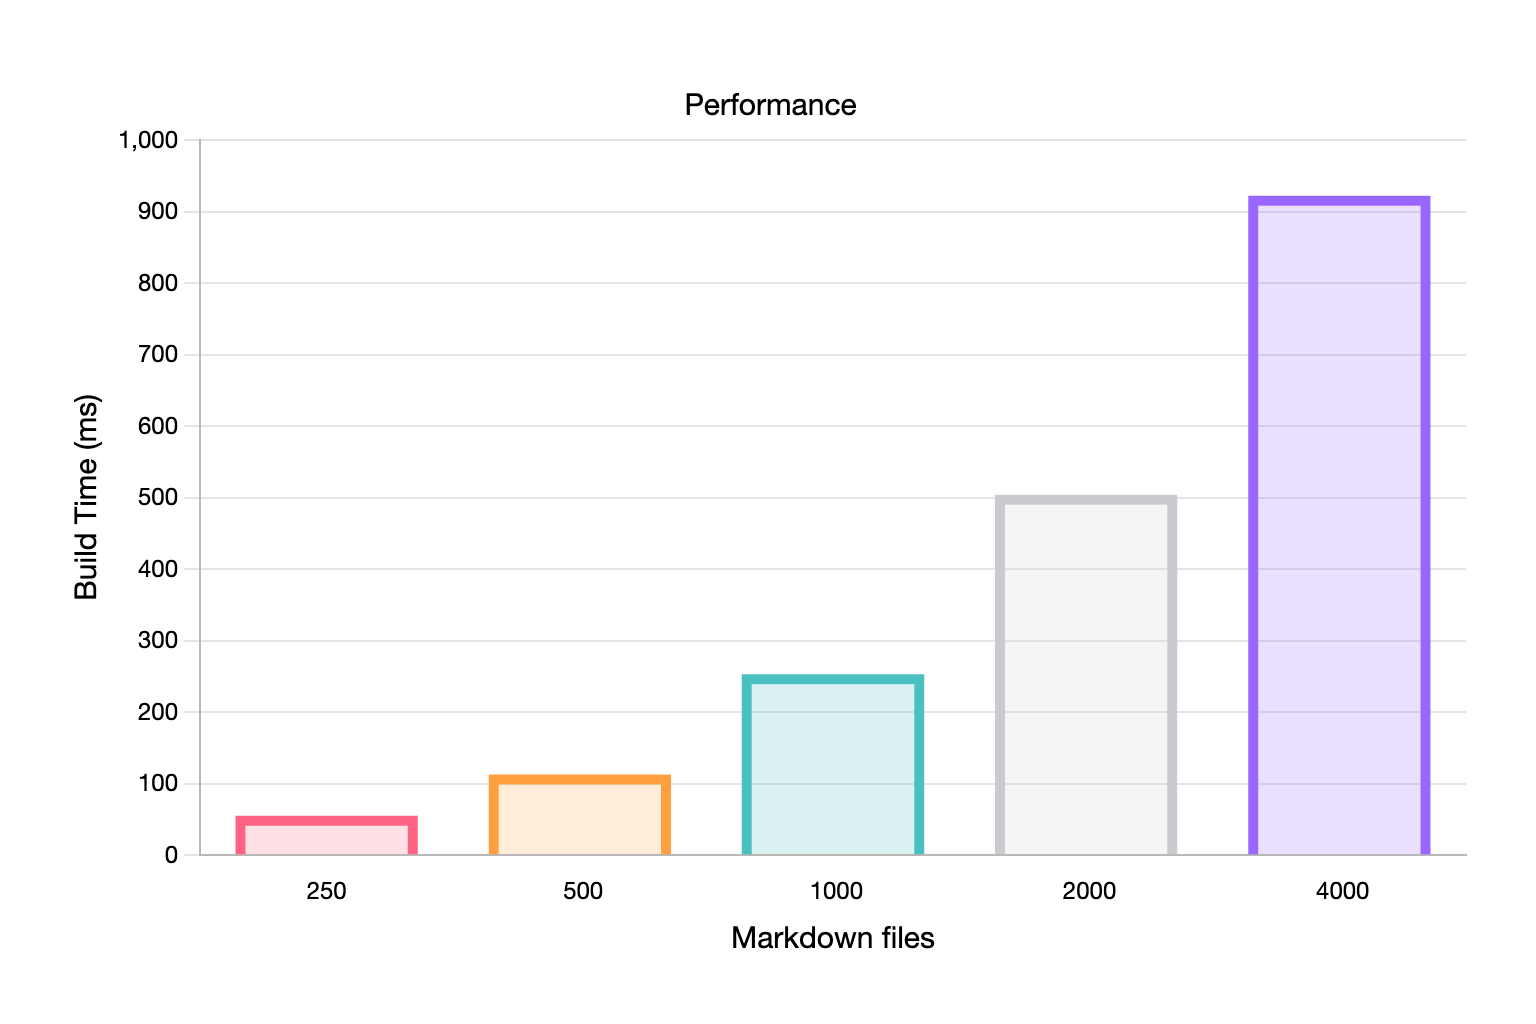
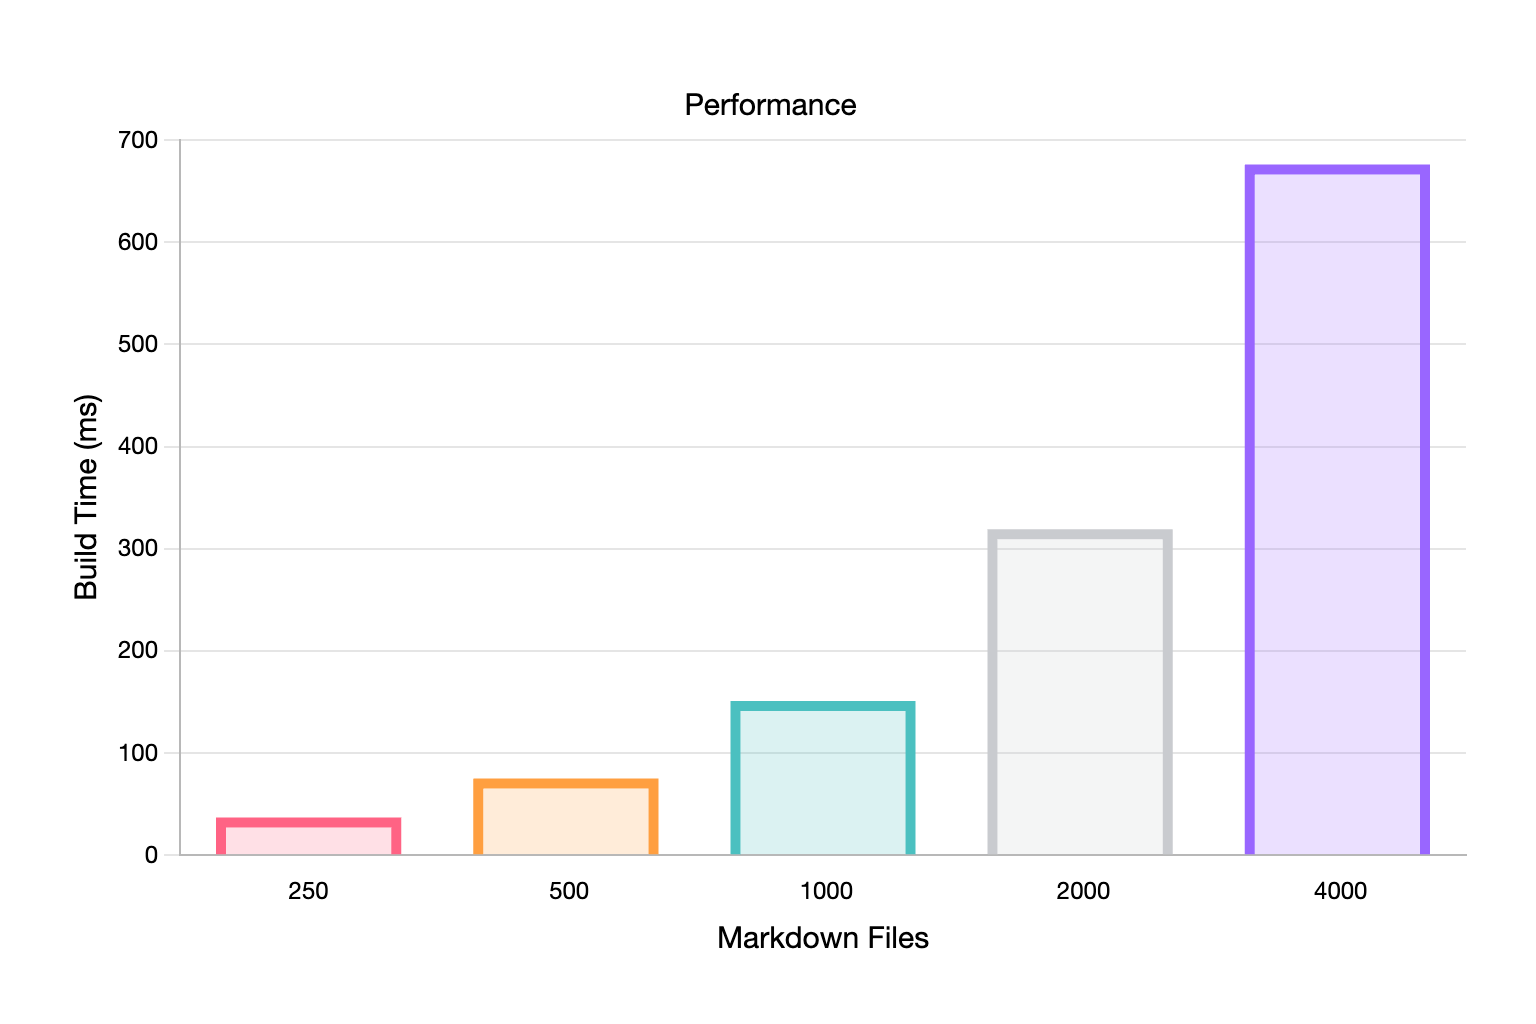
perf: update benchmarks

diff --git a/benchmarks/md-benchmark/benches/build.rs b/benchmarks/md-benchmark/benches/build.rs
@@ -1,5 +1,8 @@
 use std::env;
+use std::fs;
+use std::path::Path;
 
+use divan::Bencher;
 use md_benchmark::build_website;
 
 fn main() {
@@ -10,6 +13,19 @@ fn main() {
 }
 
 #[divan::bench(args = [250, 500, 1000, 2000, 4000], sample_count = 3)]
-fn full_build(markdown_count: u32) {
-    build_website(markdown_count);
+fn full_build(bencher: Bencher, markdown_count: u32) {
+    bencher
+        .with_inputs(|| {
+            // Clear dist directory before each sample, otherwise later samples will either be very quick if we don't clean
+            // or very slow if we do. It's better to measure only the actual work being done. It's also closer to how it'd look like
+            // on platforms like Netlify or Vercel where the output directory is always cleaned before each build.
+            let dist_dir = Path::new("dist");
+            if dist_dir.exists() {
+                let _ = fs::remove_dir_all(dist_dir);
+            }
+            markdown_count
+        })
+        .bench_values(|markdown_count| {
+            build_website(markdown_count);
+        });
 }

diff --git a/benchmarks/md-benchmark/src/page.rs b/benchmarks/md-benchmark/src/page.rs
@@ -1,4 +1,3 @@
-use maud::{html, PreEscaped};
 use maudit::{content::UntypedMarkdownContent, page::prelude::*};
 
 #[route("/[file]")]
@@ -26,7 +25,6 @@ impl Page<Params> for Article {
             .get_source::<UntypedMarkdownContent>("articles")
             .get_entry(params.file.as_str());
 
-        let content = PreEscaped(entry.render());
-        html!((content)).into()
+        entry.render().into()
     }
 }

diff --git a/website/content/news/maudit01.md b/website/content/news/maudit01.md
@@ -48,9 +48,9 @@ Our goal is to strike a balance between convenience and clarity. It shouldn't fe
 
 In general, if there's a compromise to be made, we prefer to optimize for developer experience over raw performance. However, we still aim to keep Maudit fast enough for most use cases.
 
-On a 2020 M1 MacBook Pro, [we've found that the final binary of a Maudit project can build a project with 4000 Markdown files in a little over 900ms](https://github.com/bruits/maudit/tree/main/benchmarks/md-benchmark), which we consider quite reasonable.
+On a 2020 M1 MacBook Pro, [we've found that the final binary of a Maudit project can build a project with 4000 Markdown files in around 700ms](https://github.com/bruits/maudit/tree/main/benchmarks/md-benchmark), which we consider quite reasonable.
 
-[![A graph showing the performance of Maudit building 250, 500, 1000, 2000 and 4000 pages. Respectively, it takes 55ms, 113ms, 253ms, 504ms and 922ms for the build to complete.](/01-performance.png)](https://github.com/bruits/maudit/tree/main/benchmarks/md-benchmark)
+[![A graph showing the performance of Maudit building 250, 500, 1000, 2000 and 4000 pages. Respectively, it takes 37ms, 75ms, 151ms, 319ms and 676ms for the build to complete.](/01-performance.png)](https://github.com/bruits/maudit/tree/main/benchmarks/md-benchmark)
 
 As we add more features, it's possible that Maudit will become slower, but we'll monitor performance and ensure that, yeah, it's reasonably fast.
 

diff --git a/benchmarks/md-benchmark/README.md b/benchmarks/md-benchmark/README.md
@@ -1,6 +1,6 @@
 # md-benchmark
 
-This crate contains a Maudit website with presets of various amount of markdown files and is used to benchmark the performance of Maudit.
+This crate contains a Maudit website with presets of various amount of markdown files and is used to benchmark the performance of Maudit's Markdown rendering.
 
 The generated Markdown files were taken from https://github.com/zachleat/bench-framework-markdown. Thanks to Zach Leatherman for providing the benchmark data and comparaison points with other static site generators.
 
@@ -32,15 +32,15 @@ cargo bench
 
 ## Results
 
-The following results were obtained on 2025-01-07 using a MacBook Pro (13-inch, M1, 2020) with 16 GB of RAM:
+The following results were obtained on 2025-08-27 using a MacBook Pro (13-inch, M1, 2020) with 16 GB of RAM:
 
 | Pages | Full Build Time (ms) |
 | ----- | -------------------- |
-| 250   | 55                   |
-| 500   | 113                  |
-| 1000  | 253                  |
-| 2000  | 504                  |
-| 4000  | 922                  |
+| 250   | 37                   |
+| 500   | 75                   |
+| 1000  | 151                  |
+| 2000  | 319                  |
+| 4000  | 676                  |
 
 These numbers are not scientific and only serve as a rough estimate of the performance of Maudit. Your mileage may vary.
 
